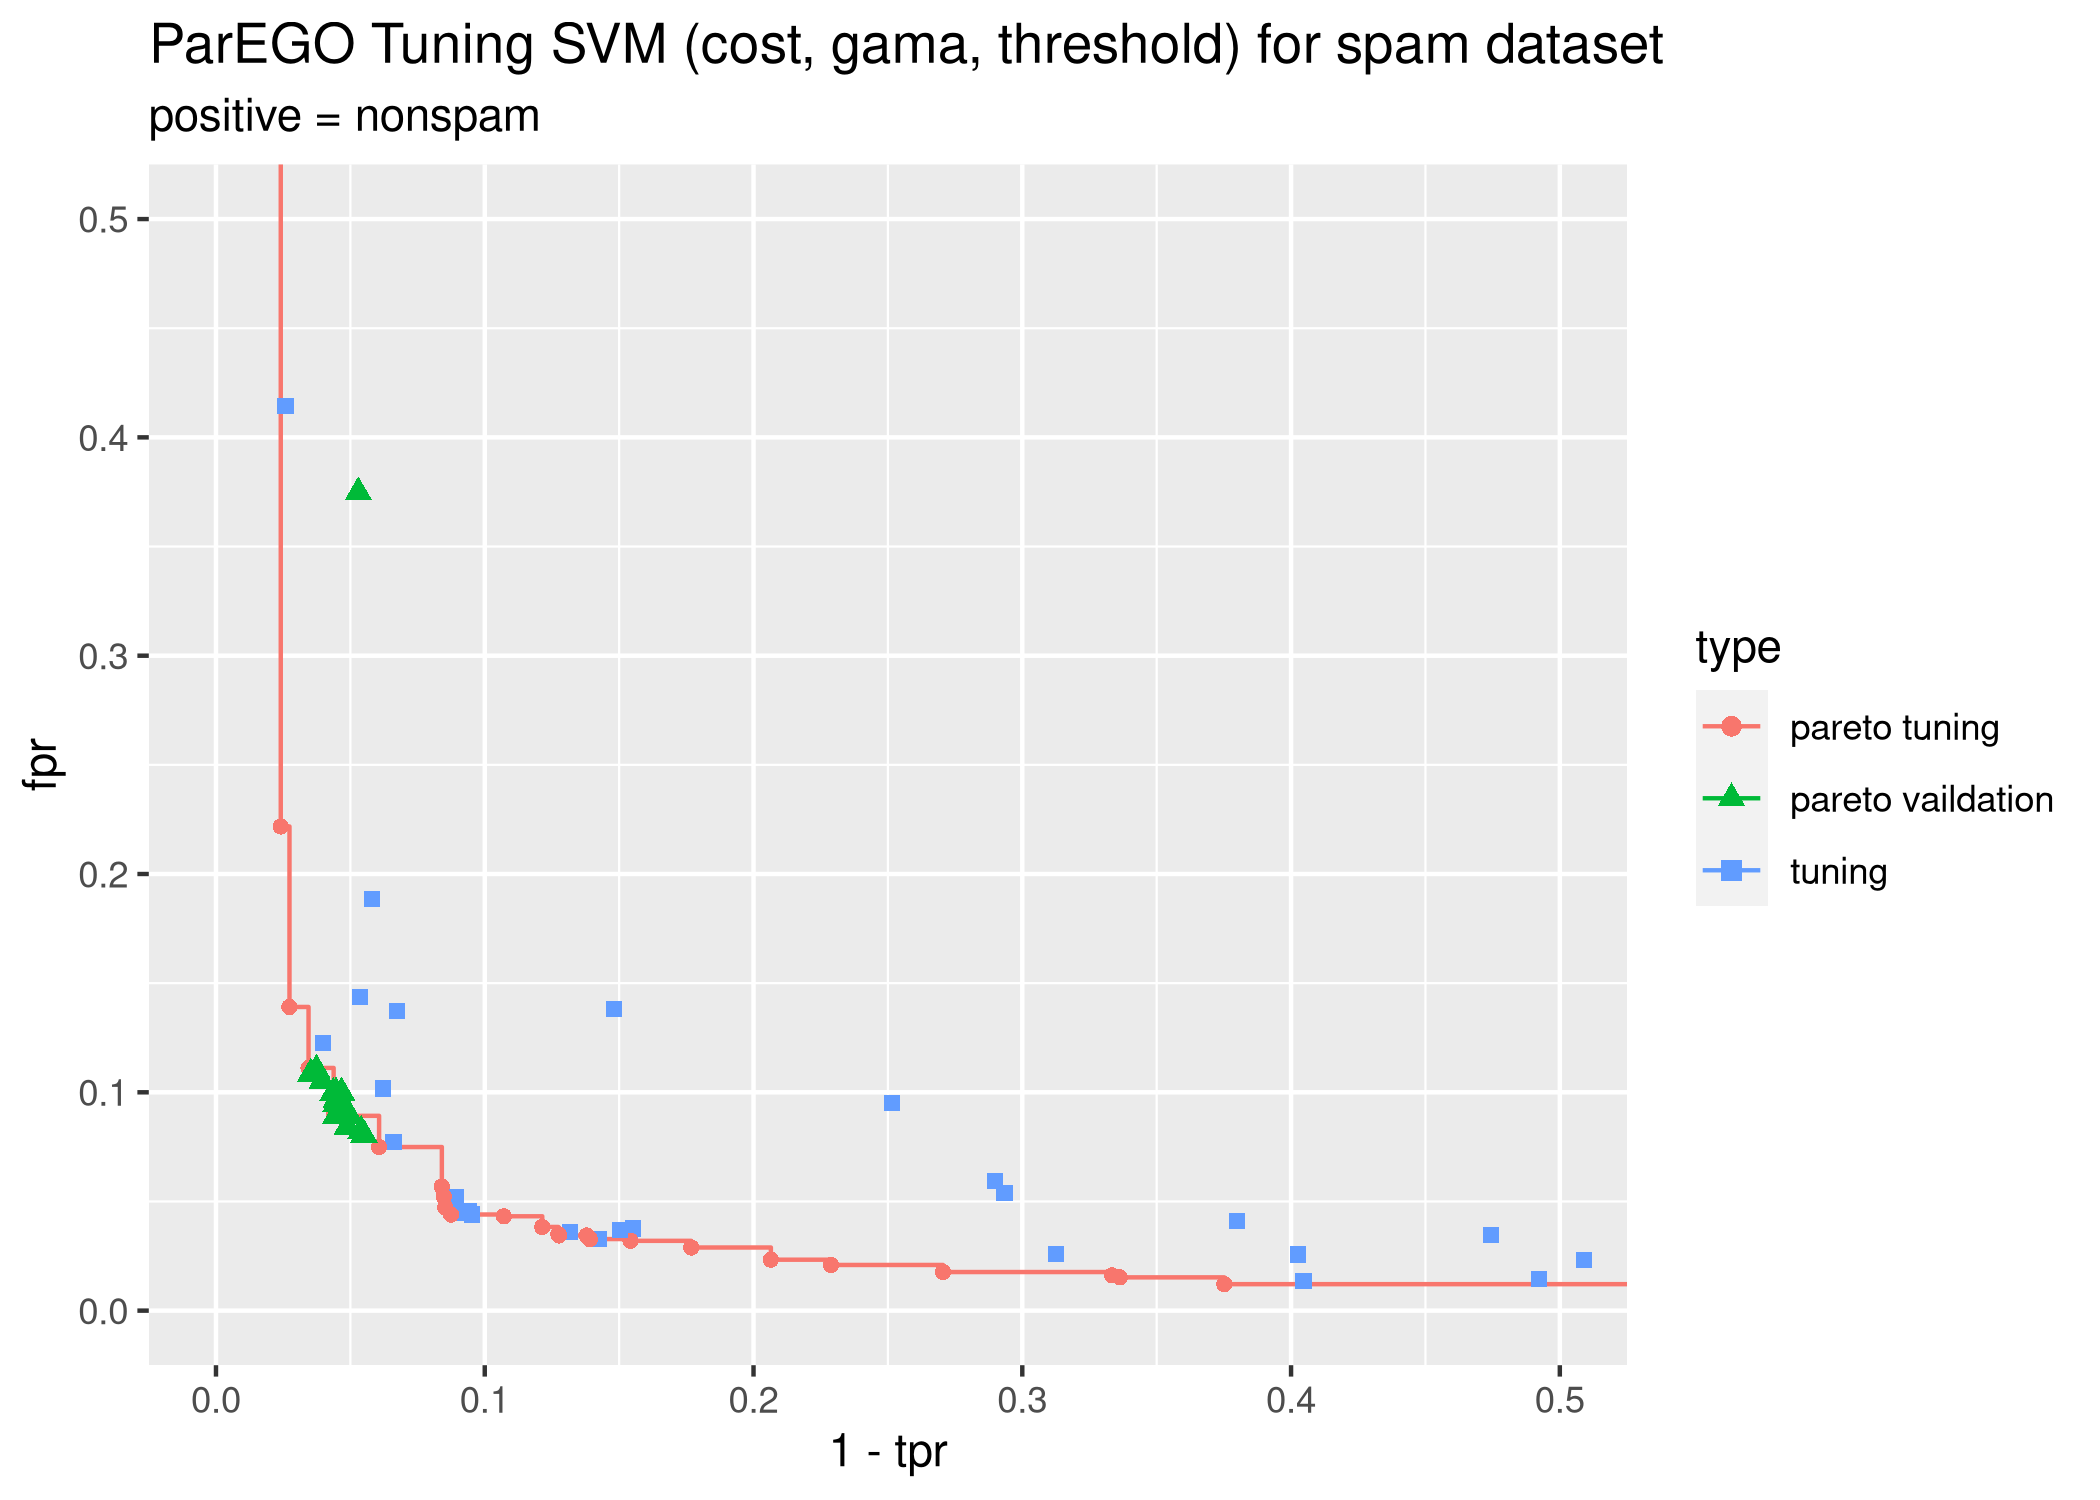
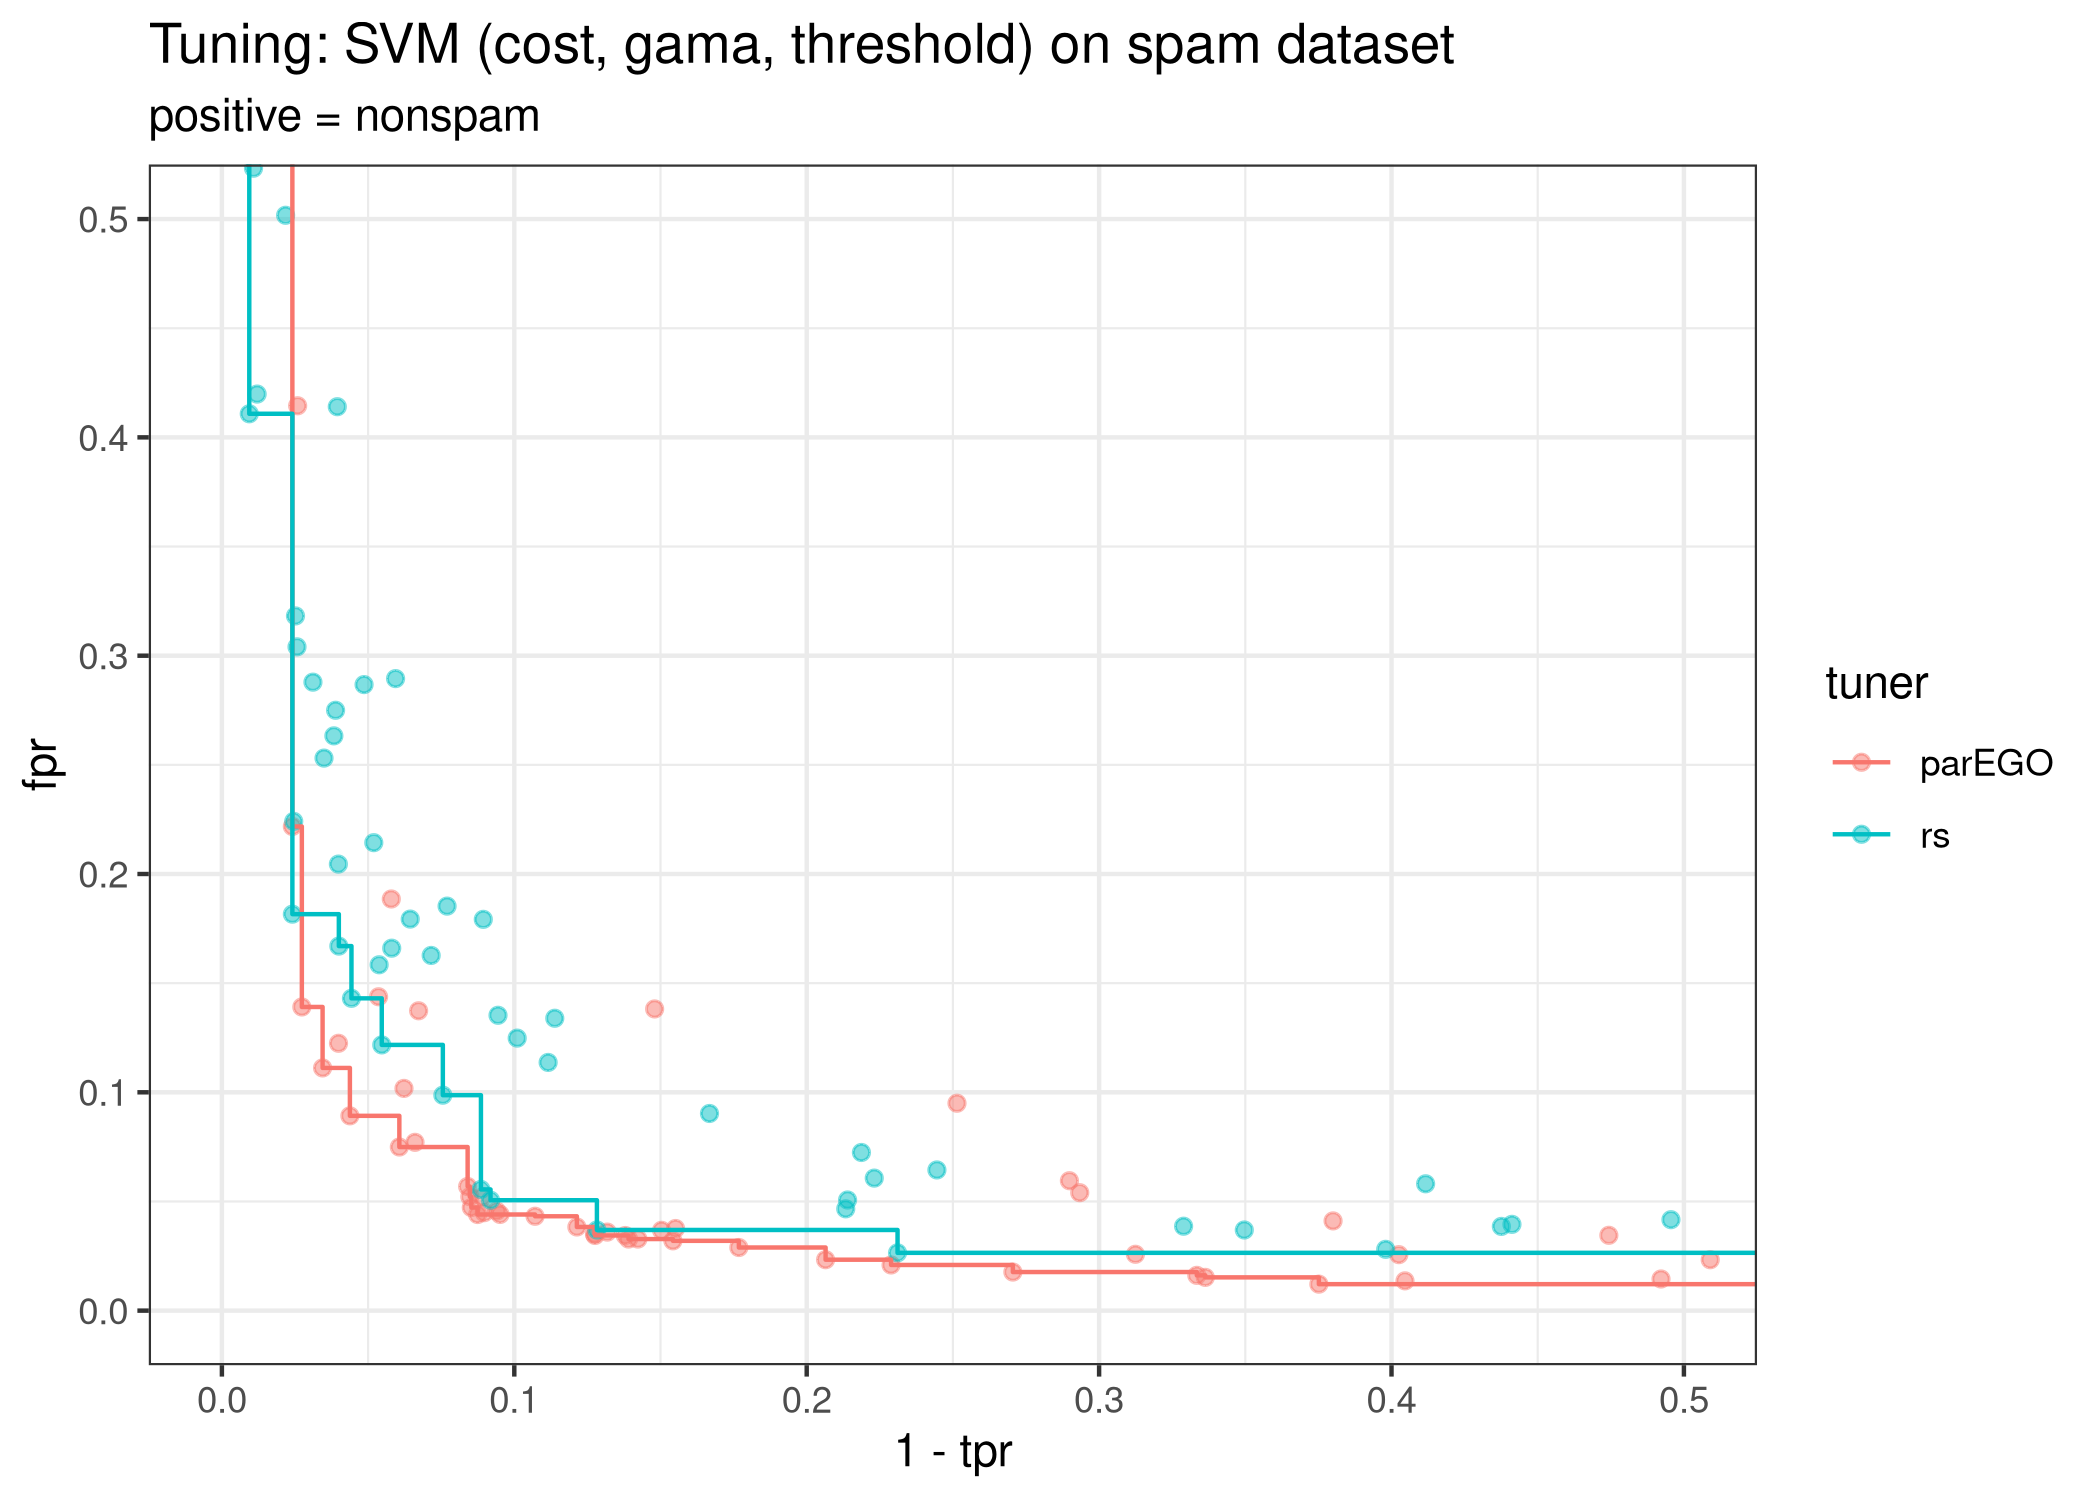
w08 practical

diff --git a/w08_hpo_multicrit/t04_practical.tex b/w08_hpo_multicrit/t04_practical.tex
@@ -88,15 +88,19 @@
 {\footnotesize For simplicity we refrain from optimizing the threshold parameter independently posthoc.}
 \end{frame}
 
-\begin{frame}{ROC Optimization - Result}
+\begin{frame}{ROC Optimization - Result I}
 
 \begin{columns}
 \begin{column}{0.45\textwidth}
   We notice here:
   \begin{itemize}
-    \item A big portion of the evaluations during tuning are on the Pareto front.
-    \item The performance on the validation set varies heavily from the tuning.
-    On the validation set we were able to achieve a better TPR but the FPR got worse.
+    \item Compared to the \emph{random search}: Many \emph{ParEGO} evaluations are on the Pareto front.
+    \item The Pareto front of \emph{ParEGO} dominates most points from the \emph{random search}.
+    \item The dominated hypervolume to the reference point $(1,1)$ is:
+    \begin{tabular}{rl}
+    \emph{ParEGO:} & 0.965\\ 
+    \emph{random search:} & 0.959\\ 
+    \end{tabular}
   \end{itemize}
   Note: The Pareto front does not reflect the stochastic characteristic of our objective.
 \end{column}%
@@ -109,12 +113,38 @@
     
 \end{frame}
 
+\begin{frame}{ROC Optimization - Result II}
+
+\begin{columns}
+\begin{column}{0.45\textwidth}
+  We validate the configurations on the Pareto front on a holdout:
+  \begin{itemize}
+    \item<1-> The performance on the validation set varies slightly.
+    \item<1-> The TPR got slightly better but the FPR got slightly worse.
+    \item<1-> On the validatoon set, some configurations get dominated by others.
+    \item<2> The dominated hypervolume of the validation set is:
+    \begin{tabular}{rl}
+    \emph{ParEGO:} & 0.960\\ 
+    \emph{random search:} & 0.961\\ 
+    \end{tabular}
+  \end{itemize}
+\end{column}%
+\begin{column}{0.5\textwidth}
+  \begin{figure}
+  \includegraphics<1>[width=\textwidth]{images/example_parego_spam_outer.png}
+  \includegraphics<2>[width=\textwidth]{images/example_parego_spam_outer_pareto.png}
+  \end{figure}
+\end{column}
+\end{columns}
+    
+\end{frame}
+
 \begin{frame}{Efficient Models - Overview}
 
 \begin{itemize}
   \item "Efficiency" can be:
   \begin{itemize}
-    \item Size of the model on the disk
+    \item Memory consumption of the model
     \item Model training or prediction time
     \item Number of features needed
     \item Energy consumption
@@ -128,6 +158,10 @@
   \item Similarly \emph{Neural architecture search (NAS)} can search over a wide set of possible architectures to find different complex models.
 \end{itemize}
 
+\end{frame}
+
+\begin{frame}{Efficient Models - Example}
+    
 \end{frame}
 
 \begin{frame}{Fair Models - Setup I}
@@ -163,27 +197,28 @@ A fair model for income prediction on binarized target\footnote{\url{https://www
 
 \end{frame}
 
-\begin{frame}{Fair Models - Setup II}
+\begin{frame}{Fair Models - Results}
 \begin{itemize}
-  \item Tuner: Multi-criteria Bayesian optimization:
+  \item ParEGO Optimization as in previous example but with
   \begin{itemize}
-    \item ParEGO with $\rho = 0.05$, $s = 100000$.
+    %\item ParEGO with $\rho = 0.05$, $s = 100000$.
     \item range of projections: $[0.1, 0.9]$ \\
     .i.e.: "No interest in extreme unfair and badly performing configurations."
-    \item Acquisition function $\acq$: \emph{Confidence Bound} with $\alpha = 2$.
+    %\item Acquisition function $\acq$: \emph{Confidence Bound} with $\alpha = 2$.
     \item Surrogate: \emph{random forest}
-    \item Budget: 120 evaluations
+    %\item Budget: 120 evaluations
   \end{itemize}
 \end{itemize}
-    
-\end{frame}
 
-\begin{frame}{Fair Models - Example}
-\begin{figure}[ht]
+\begin{figure}
 \centering
 \includegraphics{images/Pfisterer_et_al_2019_Multi_Objective_fig4.pdf}
 \caption{Pareto fronts after 20, 70 and 120 tuning iterations.}
 \end{figure}
+
+    
 \end{frame}
+
+
 
 \end{document}
